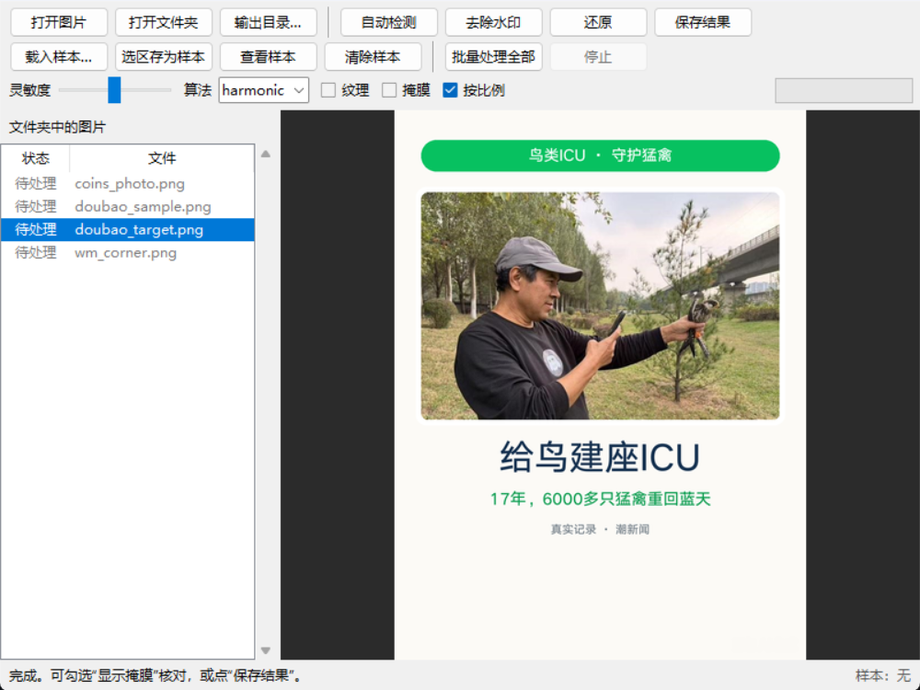
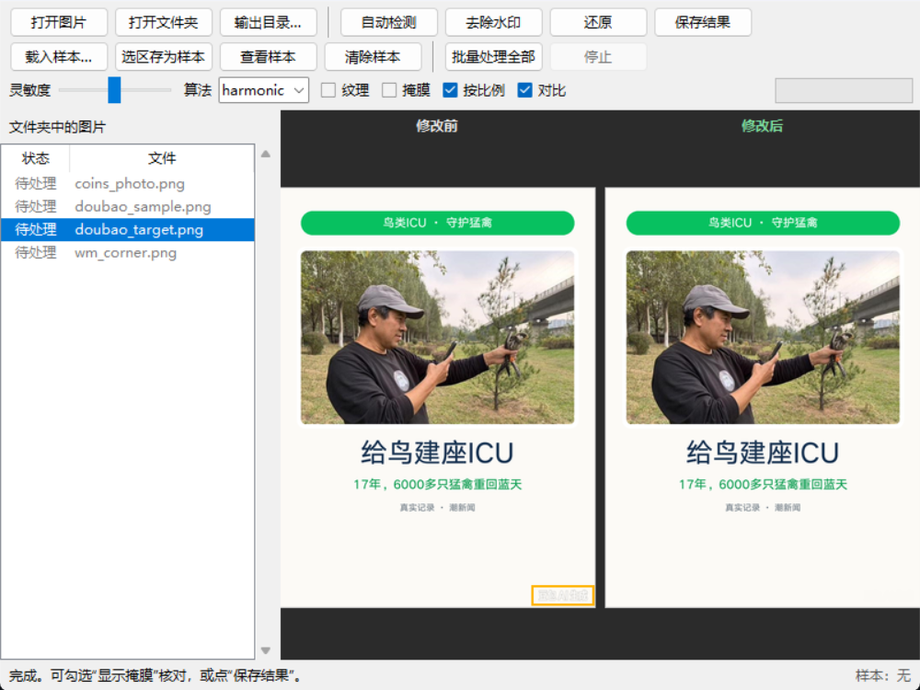
界面：处理后默认左右对比（修改前/修改后），新增 --compare 导出对比图

diff --git a/wmkit/gui.py b/wmkit/gui.py
@@ -67,11 +67,13 @@ class App:
         self.sample = None                 # template.Sample
         self.sample_path: str | None = None
 
+        self.compare = tk.BooleanVar(value=True)      # 处理后左右对比
         self.show_mask = tk.BooleanVar(value=False)
         self.apply_ratio = tk.BooleanVar(value=True)
         self.texture_var = tk.BooleanVar(value=False)
         self.scale = 1.0
         self.offset = (0, 0)
+        self._photos = []
 
         self._build_ui()
         self._poll_batch()
@@ -126,6 +128,8 @@ class App:
                         command=self.render).pack(side=tk.LEFT, padx=(6, 0))
         ttk.Checkbutton(bar2, text="按比例", variable=self.apply_ratio).pack(
             side=tk.LEFT, padx=(6, 0))
+        ttk.Checkbutton(bar2, text="对比", variable=self.compare,
+                        command=self.render).pack(side=tk.LEFT, padx=(6, 0))
 
         self.progress = ttk.Progressbar(bar2, mode="determinate", length=120)
         self.progress.pack(side=tk.RIGHT, padx=(6, 0))
@@ -259,6 +263,50 @@ class App:
         ch = max(1, self.canvas.winfo_height())
         if cw < 60 or ch < 60:
             cw, ch = PREVIEW_MAX, PREVIEW_MAX
+
+        # ---- 处理后：左右对比 ----
+        if self.result is not None and self.rgb is not None and self.compare.get():
+            gap = 10
+            label_h = 22
+            pane_w = max(40, (cw - gap) // 2)
+            pane_h = max(40, ch - label_h)
+            scale = min(pane_w / w, pane_h / h, 1.0)
+            dw, dh = max(1, int(w * scale)), max(1, int(h * scale))
+            oy = label_h + (pane_h - dh) // 2
+            ox1 = (pane_w - dw) // 2
+            ox2 = pane_w + gap + (pane_w - dw) // 2
+
+            before = self.rgb
+            after = self.result
+            if self.show_mask.get() and self.mask is not None:
+                after = imageio.overlay_visual(self.result, self.mask)
+            photos = []
+            for arr, ox, title, color in ((before, ox1, "修改前", "#e8e8e8"),
+                                          (after, ox2, "修改后", "#7ee0a0")):
+                pil = Image.fromarray(arr.astype(np.uint8)).resize((dw, dh), Image.LANCZOS)
+                photo = ImageTk.PhotoImage(pil)
+                photos.append(photo)          # 必须留引用，否则被 GC 掉变空白
+                self.canvas.create_image(ox, oy, anchor=tk.NW, image=photo)
+                self.canvas.create_rectangle(ox - 1, oy - 1, ox + dw, oy + dh,
+                                             outline="#c8c8c8")
+                self.canvas.create_text(
+                    ox + dw // 2, max(8, label_h // 2 + 2), text=title,
+                    fill=color, font=("Microsoft YaHei UI", 9, "bold"),
+                )
+            self._photos = photos
+            # 画布上的鼠标坐标按“修改前”那半算，框选仍然作用于原图
+            self.scale = scale
+            self.offset = (ox1, oy)
+            if self.region:
+                x0, y0, x1, y1 = self.region
+                self.canvas.create_rectangle(
+                    ox1 + x0 * scale, oy + y0 * scale,
+                    ox1 + x1 * scale, oy + y1 * scale,
+                    outline="#ffb300", width=2,
+                )
+            return
+
+        # ---- 单图 ----
         self.scale = min(cw / w, ch / h, 1.0)
         dw, dh = max(1, int(w * self.scale)), max(1, int(h * self.scale))
         display = img

diff --git a/scripts/make_gui_shots.py b/scripts/make_gui_shots.py
@@ -27,18 +27,28 @@ for name in ("showinfo", "showerror", "showwarning"):
 
 def shot(root, path: str):
     """整屏抓图再按“物理/逻辑”比例裁出窗口（高 DPI 缩放也准）。"""
-    root.update_idletasks()
-    root.update()
-    time.sleep(0.5)
-    full = ImageGrab.grab()
-    scale = full.width / float(root.winfo_screenwidth())   # 物理像素 / 逻辑像素
-    x, y = root.winfo_rootx() * scale, root.winfo_rooty() * scale
-    w, h = root.winfo_width() * scale, root.winfo_height() * scale
-    img = full.crop((int(x), int(y), int(x + w), int(y + h)))
-    if img.width > OUT_W:
+    from PIL import ImageStat
+
+    img = None
+    for _ in range(3):
+        root.attributes("-topmost", True)
+        root.lift()
+        root.focus_force()
+        root.update_idletasks()
+        root.update()
+        time.sleep(0.6)
+        full = ImageGrab.grab()
+        scale = full.width / float(root.winfo_screenwidth())
+        x, y = root.winfo_rootx() * scale, root.winfo_rooty() * scale
+        w, h = root.winfo_width() * scale, root.winfo_height() * scale
+        img = full.crop((int(x), int(y), int(x + w), int(y + h)))
+        # 抓黑了（窗口被遮/重绘中）就再试一次
+        if ImageStat.Stat(img.convert("L")).stddev[0] > 3.0:
+            break
+    if img.width != OUT_W:
         img = img.resize((OUT_W, int(img.height * OUT_W / img.width)), Image.LANCZOS)
     img.save(path)
-    print("saved", path, img.size, "scale", round(scale, 3))
+    print("saved", path, img.size)
 
 
 root = tk.Tk()
@@ -99,6 +109,20 @@ app.render()
 root.update()
 shot(root, os.path.join(DOCS, "gui-4-batch.png"))
 shutil.rmtree(tmp_out, ignore_errors=True)
+
+# 5) 对比视图（换一张小图，左右两半都看得清）
+corner = os.path.join("tests", "data", "wm_corner.png")
+if os.path.exists(corner):
+    app.tree.selection_set(corner)
+    app.on_tree_select()
+    root.update()
+    app.region = (69, 39, 297, 141)       # 珊瑚上的“南海网”彩色 logo
+    app.region_pct = None
+    app.show_mask.set(False)
+    app.compare.set(True)
+    app.do_remove()
+    root.update()
+    shot(root, os.path.join(DOCS, "gui-5-compare.png"))
 
 root.destroy()
 print("done")

diff --git a/wmkit/pipeline.py b/wmkit/pipeline.py
@@ -302,6 +302,7 @@ def remove(rgb: np.ndarray, mask: np.ndarray, *, method: str = "harmonic",
 def process(image_path: str, out_path: str, *, region=None, sensitivity: float = 0.5,
             method: str = "harmonic", texture_refine: bool = False,
             mask_path: str | None = None, debug_path: str | None = None,
+            compare_path: str | None = None,
             auto: bool = True, extra: dict | None = None) -> dict:
     rgb, alpha, _size = imageio.load_image(image_path)
     h, w = rgb.shape[:2]
@@ -318,6 +319,8 @@ def process(image_path: str, out_path: str, *, region=None, sensitivity: float =
         imageio.save_mask_png(mask_path, mask)
     if debug_path:
         imageio.save_image(debug_path, imageio.overlay_visual(rgb, mask))
+    if compare_path:
+        imageio.save_side_by_side(compare_path, rgb, out, labels=("before", "after"))
 
     report = analysis_report(a, image_path=image_path, extra=extra)
     report["output"] = {"path": os.path.abspath(out_path), "method": method,
@@ -456,7 +459,8 @@ def process_sample(image_path: str, out_path: str, sample, *,
                    method: str = "harmonic", texture_refine: bool = False,
                    sensitivity: float = 0.5, mode: str = "stamp",
                    mask_path: str | None = None,
-                   debug_path: str | None = None) -> dict:
+                   debug_path: str | None = None,
+                   compare_path: str | None = None) -> dict:
     """用样本定位水印并去除，返回报告。
 
     mode="stamp"：样本就是水印，按它的形状直接擦（默认）；
@@ -479,6 +483,8 @@ def process_sample(image_path: str, out_path: str, sample, *,
     imageio.save_image(out_path, out, alpha=alpha)
     if mask_path:
         imageio.save_mask_png(mask_path, mask)
+    if compare_path:
+        imageio.save_side_by_side(compare_path, rgb, out, labels=("before", "after"))
     if debug_path:
         imageio.save_image(debug_path, imageio.overlay_visual(rgb, mask))
 

diff --git a/tests/test_basic.py b/tests/test_basic.py
@@ -321,6 +321,26 @@ def test_user_region_ring_mask():
               f"({blue_before} -> {blue_after})")
 
 
+def test_compare_export():
+    """--compare：导出“修改前 / 修改后”左右对比图。"""
+    print("对比图导出")
+    with tempfile.TemporaryDirectory() as tmp:
+        out = os.path.join(tmp, "o.png")
+        cmp_path = os.path.join(tmp, "c.png")
+        rep = pipeline.process("images/photo_bird.jpg", out,
+                               region="470,375,170,105", compare_path=cmp_path)
+        check("对比图已生成", os.path.exists(cmp_path))
+        if os.path.exists(cmp_path):
+            before, _, _ = imageio.load_image("images/photo_bird.jpg")
+            after, _, _ = imageio.load_image(out)
+            side, _, _ = imageio.load_image(cmp_path)
+            check("宽度 = 原图 + 结果 + 间隔",
+                  side.shape[1] == before.shape[1] + after.shape[1] + 12,
+                  f"({side.shape[1]} vs {before.shape[1]}+{after.shape[1]})")
+            check("高度够放两张图", side.shape[0] >= max(before.shape[0], after.shape[0]))
+        check("报告里有掩膜像素", rep["removal"]["mask_pixels"] > 0)
+
+
 def main():
     test_parse_region()
     test_inpaint()
@@ -334,6 +354,7 @@ def main():
     test_real_doubao_sample()
     test_auto_detect_cases()
     test_user_region_ring_mask()
+    test_compare_export()
     print(f"\n{PASS} passed, {FAIL} failed")
     return 1 if FAIL else 0
 

diff --git a/wm.py b/wm.py
@@ -129,6 +129,7 @@ def cmd_remove(args) -> int:
                 mode=args.sample_mode,
                 mask_path=args.mask,
                 debug_path=args.debug,
+                compare_path=getattr(args, "compare", None),
             )
         except LookupError as exc:
             print(f"未处理: {exc}", file=sys.stderr)
@@ -143,6 +144,7 @@ def cmd_remove(args) -> int:
             texture_refine=args.texture,
             mask_path=args.mask,
             debug_path=args.debug,
+            compare_path=getattr(args, "compare", None),
             auto=not args.no_auto,
         )
         _print_analysis(report)
@@ -321,6 +323,8 @@ def build_parser() -> argparse.ArgumentParser:
     r.add_argument("--json", default=None, help="把处理报告写成 JSON")
     r.add_argument("--mask", default=None, help="同时导出掩膜 PNG")
     r.add_argument("--debug", default=None, help="同时导出掩膜叠加调试图")
+    r.add_argument("--compare", default=None, metavar="PNG",
+                   help="同时导出“修改前 / 修改后”左右对比图")
     add_common(r)
     add_sample(r)
     r.set_defaults(func=cmd_remove)

diff --git a/wmkit/imageio.py b/wmkit/imageio.py
@@ -49,3 +49,17 @@ def overlay_visual(rgb: np.ndarray, mask: np.ndarray, color=(255, 40, 40), alpha
     m = mask[..., None].astype(np.float32) * alpha
     out = out * (1 - m) + c * m
     return np.clip(out, 0, 255).astype(np.uint8)
+
+
+def save_side_by_side(path: str, before: np.ndarray, after: np.ndarray,
+                      *, gap: int = 12, labels=("before", "after"),
+                      bg: tuple[int, int, int] = (255, 255, 255)) -> None:
+    """把“修改前 / 修改后”左右拼成一张图保存（两边等高，不足处留白）。"""
+    a = np.asarray(before, dtype=np.uint8)
+    b = np.asarray(after, dtype=np.uint8)
+    h = max(a.shape[0], b.shape[0])
+    w = a.shape[1] + b.shape[1] + gap
+    canvas = np.full((h, w, 3), bg, np.uint8)
+    canvas[: a.shape[0], : a.shape[1]] = a[..., :3]
+    canvas[: b.shape[0], a.shape[1] + gap: a.shape[1] + gap + b.shape[1]] = b[..., :3]
+    save_image(path, canvas)
